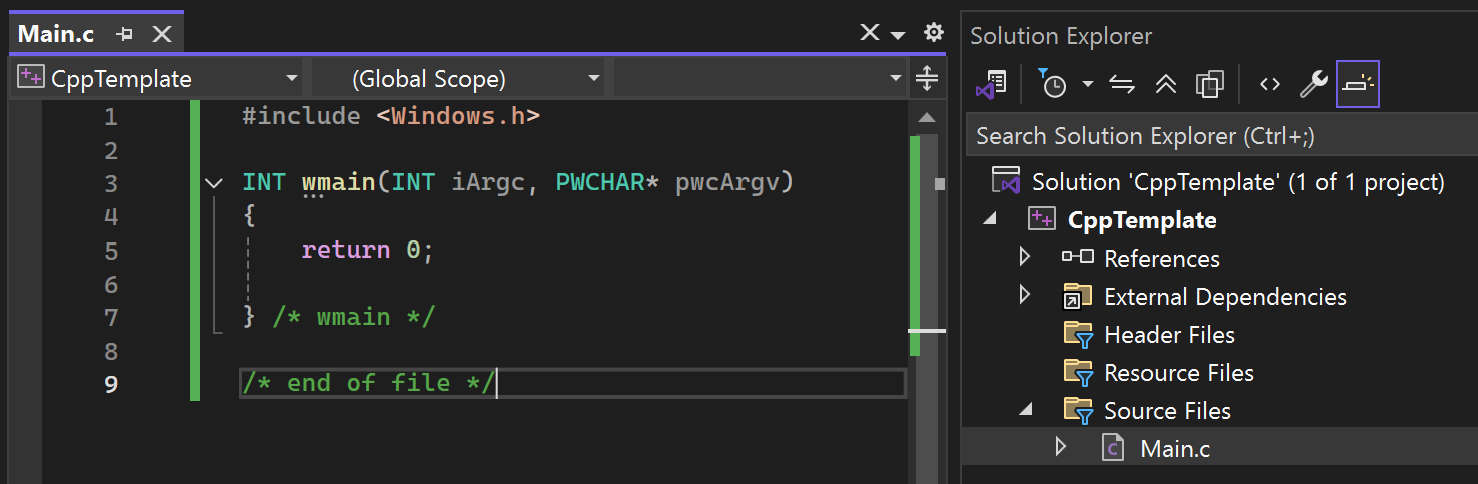
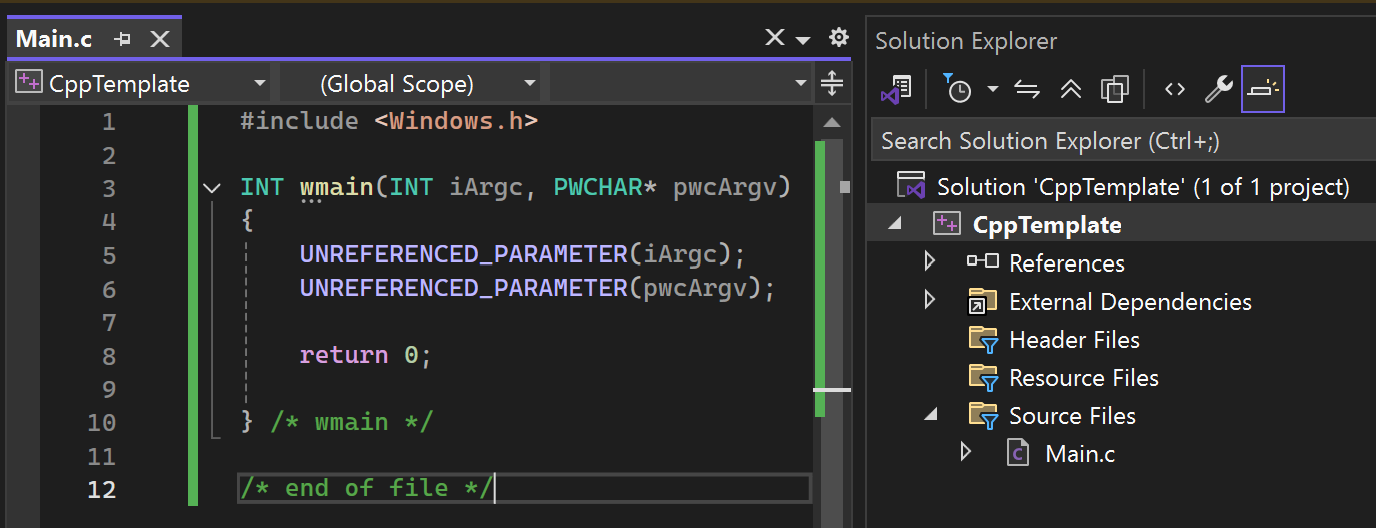
Finish VS Template writeup

diff --git a/src/pages/programming/visual-studio-cpp-console-template.md b/src/pages/programming/visual-studio-cpp-console-template.md
@@ -10,7 +10,7 @@ Date Created: 05-05-2026
 
 ## Overview
 
-The purpose of this writeup is to document how I configure a simple C project and generate a reusable template for future projects. This tutorial will go over creating a C/Cpp Console App, adjusting default settings to better fit my needs, adding C/C++ formatting files to keep code consistent, and finally exporting the skeleton project to a Visual Studio template for repeated use.
+The purpose of this writeup is to document how I configure a C project and generate a reusable template for future projects. This tutorial will go over creating a C/Cpp Console App, adjusting default settings for better work flow, test building project, and finally exporting the skeleton project to a Visual Studio template for repeated use.
 
 ## Table of Contents
 
@@ -18,7 +18,6 @@ The purpose of this writeup is to document how I configure a simple C project an
 1. [Adjust Project Settings](#adjust-project-settings)
     - [Add Main.c and sample source code](#add-mainc-and-sample-source-code)
     - [Update Default Output and Intermediate Directories](#update-default-output-and-intermediate-directories)
-1. [Add .clang-format](#add-clang-format)
 1. [Export as a Visual Studio template](#export-as-a-visual-studio-template)
 1. [Using the template](#using-the-template)
 1. [References](#references)
@@ -51,12 +50,16 @@ Below are the steps to create a new Visual Studio C/C++ console app:
 
     INT wmain(INT iArgc, PWCHAR* pwcArgv)
     {
+        UNREFERENCED_PARAMETER(iArgc);
+        UNREFERENCED_PARAMETER(pwcArgv);
+        
         return 0;
 
     } /* wmain */
 
     /* end of file */
     ```
+
 3. Your project should look similar to the following image:
     ![Basic Project Setup](../../tutorials-notes/visual-studio-cpp-console-template/3-basic-main.png)
 
@@ -66,16 +69,16 @@ By default, when Visual Studio builds your programs, the x64|x86 directories are
 
 1. Navigate to the Solution Explorer and right click `CppTemplate` project.
 1. Click `properties`
-1. Ensure `All configurations` is selected, if this is your preference.
+1. Ensure `All Configurations and All Platforms` are selected, if this is your preference.
 1. Update `Configuration Properties > General > Output Directory` to the following
     
     ```c
-    $(ShortProjectName)Build\$(Platform)\$(Configuration)\
+    $(SolutionDir)\Build\$(Platform)\$(Configuration)\
     ```
 1. Update `Configuration Properties > General > Intermediate Directory` to the following: 
     
     ```c
-    $(ShortProjectName)Build\Intermediate\$(Platform)\$(Configuration)\
+    $(SolutionDir)\Build\Intermediate\$(Platform)\$(Configuration)\
     ```
 
 1. Click `Apply` and now you project will place all build artifacts in a single folder and subfolder for easy use later on.
@@ -85,16 +88,83 @@ By default, when Visual Studio builds your programs, the x64|x86 directories are
 ### Add Build Hardening with Warning Level 4 and Address Sanitizer
 
 1. Right click the `CppTemplate` project and select `properties`
-1. Ensure `All Configurations` is selected
+1. Ensure `All Configurations and All Platforms` are selected
 1. Update `Configuration Properties > C/C++ > Warning Level` to `Warning Level 4`
 1. Update `Configuration Properties > C/C++ > Enable Address Saniter` to `Yes (/fsanitize=address)`
+1. Select `Apply` to save the settings
 
 ![Example update build hardening](../../tutorials-notes/visual-studio-cpp-console-template/5-c-settings-update.png)
 
-## Add `.clang-format`
+## Conduct a Test Build
+
+Once you are content with the updates, I like to run a test build of all configurations [x64|x86|DEBUG|RELEASE] to ensure everything builds without warnings/errors. To build all configurations in one easy step, you can use the `Batch Build` feature in Visual Studio. 
+
+1. Navigate to the `Build > Batch Build` and select all configurations you would like to test build.
+1. Then select `Build`
+
+![Batch Build Configurations](../../tutorials-notes/visual-studio-cpp-console-template/6-batch-build.png)
+
+1. The Batch Build job will build all selected versions of your project and place them in the proper output and intermediate directories. In this case, all generated files will be places in the `$SolutionDir > Build` path.
+
+1. Open a terminal inside the Visual Studio IDE through `View > Terminal` and a VS Developer Terminal will open in the current working directory.
+
+1. Ensure your `Build` and `Build/Intermediate` folders were created and contain the proper files.
+
+```powershell
+C:\templates\CppTemplate> tree /F .\Build\x64\
+Folder PATH listing
+Volume serial number is 92E1-1FEE
+
+C:\TEMPLATES\CPPTEMPLATE\BUILD\X64
+├───Debug
+│       CppTemplate.exe
+│       CppTemplate.pdb
+│
+└───Release
+        CppTemplate.exe
+
+C:\templates\CppTemplate> tree /F .\Build\Win32\
+Folder PATH listing
+Volume serial number is 92E1-1FEE
+C:\TEMPLATES\CPPTEMPLATE\BUILD\WIN32
+├───Debug
+│       CppTemplate.exe
+│       CppTemplate.pdb
+│
+└───Release
+        CppTemplate.exe
+```
 
 ## Export as a Visual Studio template
 
+Once you are happy with the outcome, follow these steps to turn a VS project into a template.
+
+1. On the top VS tool bar select `Project > Export Template`
+1. Select `Project Template` and ensure the correct project is selected, then select `Next`.
+
+![Convert to Template](../../tutorials-notes/visual-studio-cpp-console-template/7-project-template.png)
+
+1. Add personalization settings and keep the default paths / options. Visual Studio will know where to find your templates and load them each time for easy access.
+
+![Template Settings](../../tutorials-notes/visual-studio-cpp-console-template/8-template-settings.png)
+
+1. Select `Finish` to create the template.
+1. Verify your template.zip was created and placed in the proper folder.
+
+![Final Template](../../tutorials-notes/visual-studio-cpp-console-template/9-final-template.png)
+
 ## Using the template
 
-## References
+To use your template, follow these steps:
+
+1. Create a new Visual Studio Solution in a new directory.
+1. Right click > Add > New Project
+1. You will see the `CppTemplate` project preloaded.
+1. Select `CppTemplate`, then `Next`
+1. Give your project a name, ensure the path is correct, and select `Create`
+
+Now you have a new project with all of your template configurations ready to use. To test, you can simple build your project to verify all repository shortcut links work properly in the new location.
+
+There may be some additional settings you wish to adjust, but this should get you pointed in the right direction.
+
+![Complete New Soltion with Project from Template](../../tutorials-notes/visual-studio-cpp-console-template/10-complete.png)
